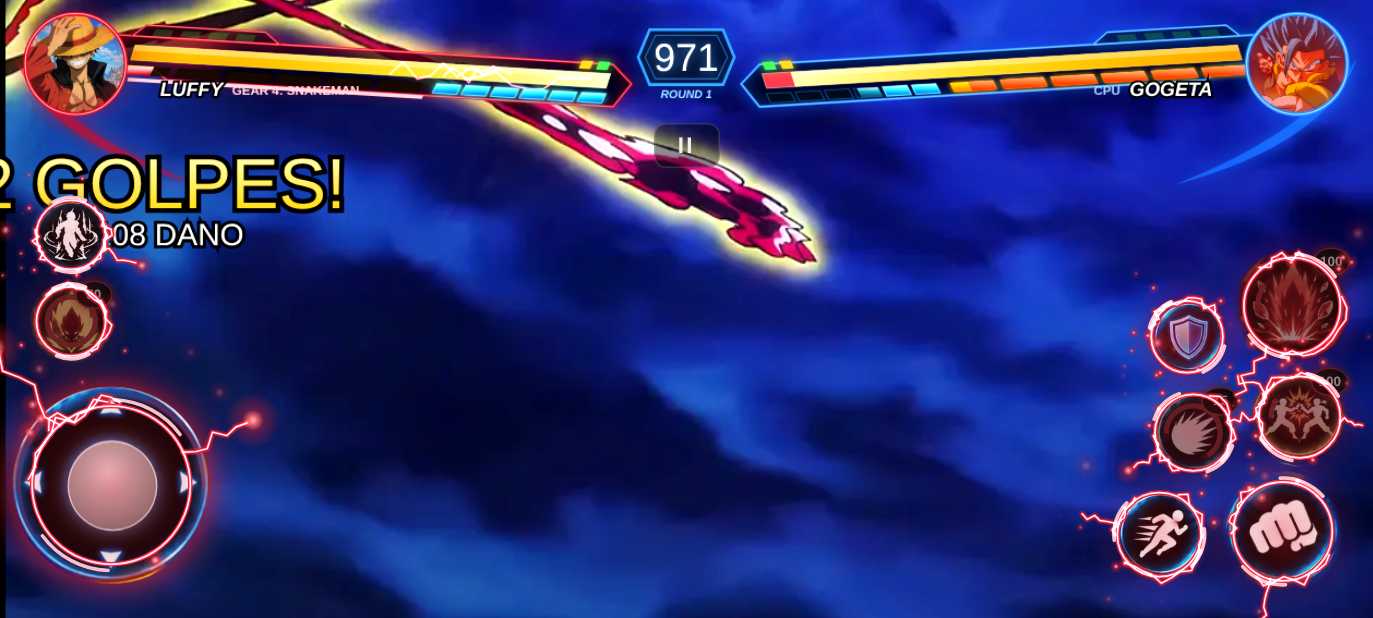
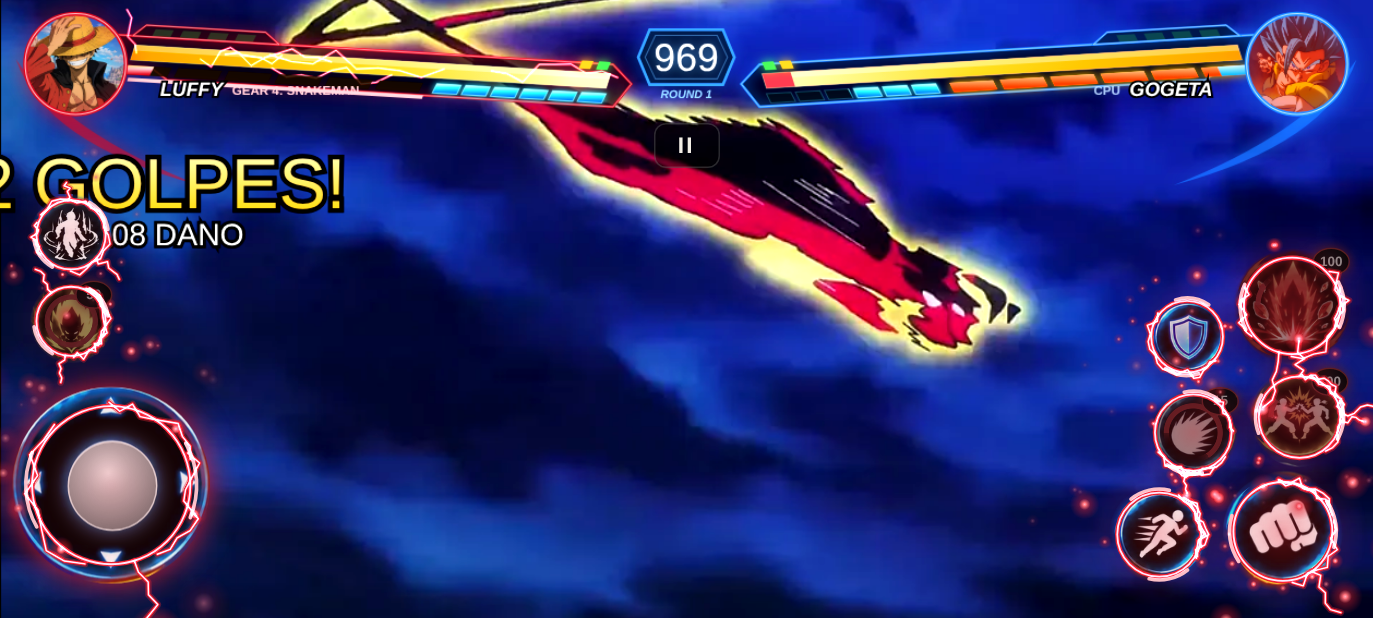
v150: Luffy — socos mais rápidos e fortes, rajada de socos na corrente, rajadas de ar
Claude-Session: https://claude.ai/code/session_01KtrZTmDkLnY2EE7eHvUsq1

diff --git a/www/index.html b/www/index.html
@@ -3245,10 +3245,10 @@ const LFK={lfc:1,lfp:1,lfg:1};
 function lfKey(f){const t=f.st;if(f.state==='lfc')return['cmb',Math.min(7,Math.floor(t/6))];
   if(f.state==='lfp'){const A=f.lfS?'ki2':'ki1',ext=f.form?(f.lfS?3:4):(f.lfS?5:4);if(t<6)return[A,Math.min(ext-1,1+(t>>1))];if(t<16)return[A,ext];return[A,Math.min(7,ext+1+((t-16)>>2))]}
   if(f.state==='lfg'){if(t<8)return['gatling',Math.min(2,t>>2)];if(t<50)return['gatling',3+((t>>2)%3)];return['gatling',Math.min(7,6+((t-50)>>3))]}return['idle',0]}
-Object.assign(VGA,{ljab:['jab',[0,1],[2],[3]],ljab2:['jab',[3,4],[5],[6]],lknee:['cross',[1,2,3],[4],[5,6,7]],lstr:['upper',[1,2,3],[4],[5,6,7]],
+Object.assign(VGA,{ljab:['jab',[1],[2],[3]],ljab2:['jab',[4],[5],[6]],lknee:['cross',[2,3],[4,4,5],[6,7]],lrap:['gatling',[1,2],[3,4,5,4,5,3,4,5],[6,7]],lstr:['upper',[2,3],[4],[5,6,7]],
   lkick:['kick',[1,2,3],[4],[5,6,7]],lhkick:['hkick',[1,2,3],[4],[5,6,7]],lsweep:['sweep',[1,2,3,4],[5],[6,7]],
   lajab:['ajab',[1],[2,3],[4,5,6,7]],lakick:['akick',[1],[2,3],[4,5,6,7]],lsmash:['str',[0,1,2,3],[4,5],[6,7]],lrush:['dash2',[1,2],[3,4],[5,6]],
-  yjab:['jab',[0,1,2],[3,4],[5,6,7]],yjab2:['cross',[0,1,2],[3,4],[5,6,7]],yknee:['str',[1,2],[3,4,5,6],[7]],ystr:['upper',[1,2,3],[4],[5,6,7]],
+  yjab:['jab',[1,2],[3,4],[6,7]],yjab2:['cross',[1,2],[3,4],[6,7]],yknee:['str',[1,2],[3,4,5,6],[7]],yrap:['gatling',[1,2],[3,4,5,6,3,4,5,6],[7]],ystr:['upper',[2,3],[4],[5,6,7]],
   ykick:['kick',[1,2],[3,4],[5,6,7]],yhkick:['hkick',[1,2],[3,4],[5,6,7]],ysweep:['sweep',[1,2],[3,4,5],[6,7]],
   yajab:['ajab',[1],[2,3],[4,5,6,7]],yakick:['akick',[1],[2,3],[4,5,6,7]],ysmash:['cross',[0,1,2],[3,4],[5,6,7]],yrush:['dash2',[1,2],[3,4],[5,6]]});
 (function(){
@@ -3260,10 +3260,11 @@ Object.assign(VGA,{ljab:['jab',[0,1],[2],[3]],ljab2:['jab',[3,4],[5],[6]],lknee:
   const hb=(name,pad,hh,low,S)=>{const A=VGA[name],L=(S||S0)[A[0]];let rx=0,ry=0;for(const i of A[2]){const F=L[i];if(F&&F.rx>rx){rx=F.rx;ry=F.ry}}
     return low?[6,-(ry+hh*.6),rx+pad-6,hh]:[6,-(ry+hh/2),rx+pad-6,hh]};
   Object.assign(MOVES,{
-    ljab:{su:4,ac:3,rc:8,dmg:42,hb:hb('ljab',26,60),kb:2.2,hs:16,next:'ljab2',knext:'lkick',lean:1.6,cat:'punch'},
-    ljab2:{su:3,ac:3,rc:9,dmg:46,hb:hb('ljab2',26,60),kb:2.4,hs:17,next:'lknee',knext:'lkick',lean:1.8,cat:'punch'},
-    lknee:{su:5,ac:4,rc:10,dmg:62,hb:hb('lknee',40,70),kb:3.4,hs:18,next:'lstr',knext:'lkick',lean:1.4,cat:'punch'},
-    lstr:{su:6,ac:5,rc:14,dmg:84,hb:hb('lstr',26,120),kb:4,launch:-10,launcher:1,heavy:1,lean:2,cat:'kick'},
+    ljab:{su:3,ac:3,rc:6,dmg:48,hb:hb('ljab',28,60),kb:2.2,hs:16,next:'ljab2',knext:'lkick',lean:1.8,cat:'punch'},
+    ljab2:{su:2,ac:3,rc:6,dmg:52,hb:hb('ljab2',28,60),kb:2.4,hs:17,next:'lknee',knext:'lkick',lean:2,cat:'punch'},
+    lknee:{su:3,ac:5,rc:7,dmg:72,hb:hb('lknee',60,70),kb:3.4,hs:18,next:'lrap',knext:'lkick',lean:1.6,lfAir:1,cat:'punch'},
+    lrap:{su:3,ac:16,rc:6,dmg:24,rehit:[4,8,12],hb:hb('lrap',50,90),kb:1,hs:12,next:'lstr',knext:'lkick',lean:1.2,lfAir:2,cat:'punch'},
+    lstr:{su:4,ac:5,rc:12,dmg:96,hb:hb('lstr',30,130),kb:4,launch:-10,launcher:1,heavy:1,lean:2.2,cat:'kick'},
     lkick:{su:6,ac:5,rc:12,dmg:62,hb:hb('lkick',26,80),kb:4,hs:19,lean:1.2,next:'ljab',knext:'lhkick',cat:'kick'},
     lhkick:{su:8,ac:4,rc:15,dmg:84,hb:[6,-290,124,262],kb:4,launch:-10,launcher:1,heavy:1,lean:1.4,cat:'kick'},
     lsweep:{su:7,ac:5,rc:16,dmg:66,hb:hb('lsweep',22,56,1),kb:3,launch:-5,low:1,crouch:1,cat:'kick'},
@@ -3271,10 +3272,11 @@ Object.assign(VGA,{ljab:['jab',[0,1],[2],[3]],ljab2:['jab',[3,4],[5],[6]],lknee:
     lakick:{su:4,ac:5,rc:9,dmg:64,hb:hb('lakick',26,100),kb:5,hs:18,air:1,cat:'kick'},
     lsmash:Object.assign({},MOVES.smash,{hb:hb('lsmash',40,80)}),
     lrush:Object.assign({},MOVES.rush,{hb:hb('lrush',30,120)}),
-    yjab:{su:3,ac:4,rc:8,dmg:46,hb:hb('yjab',40,70,0,S1),kb:2.6,hs:16,next:'yjab2',knext:'ykick',lean:1.6,cat:'punch'},
-    yjab2:{su:3,ac:4,rc:8,dmg:50,hb:hb('yjab2',40,70,0,S1),kb:2.8,hs:17,next:'yknee',knext:'ykick',lean:1.8,cat:'punch'},
-    yknee:{su:3,ac:8,rc:7,dmg:30,rehit:[6,9],hb:hb('yknee',40,80,0,S1),kb:1.5,hs:12,next:'ystr',knext:'ykick',lean:1.4,cat:'punch'},
-    ystr:{su:5,ac:5,rc:13,dmg:90,hb:hb('ystr',30,130,0,S1),kb:4,launch:-11,launcher:1,heavy:1,lean:2,cat:'kick'},
+    yjab:{su:2,ac:4,rc:6,dmg:54,hb:hb('yjab',60,70,0,S1),kb:2.6,hs:16,next:'yjab2',knext:'ykick',lean:1.8,lfAir:1,cat:'punch'},
+    yjab2:{su:2,ac:4,rc:6,dmg:58,hb:hb('yjab2',60,70,0,S1),kb:2.8,hs:17,next:'yknee',knext:'ykick',lean:2,lfAir:1,cat:'punch'},
+    yknee:{su:2,ac:8,rc:6,dmg:36,rehit:[5],hb:hb('yknee',60,80,0,S1),kb:1.5,hs:12,next:'yrap',knext:'ykick',lean:1.4,lfAir:1,cat:'punch'},
+    yrap:{su:2,ac:16,rc:5,dmg:28,rehit:[3,6,9,12],hb:hb('yrap',70,100,0,S1),kb:1,hs:11,next:'ystr',knext:'ykick',lean:1.2,lfAir:2,cat:'punch'},
+    ystr:{su:3,ac:5,rc:11,dmg:104,hb:hb('ystr',40,140,0,S1),kb:4,launch:-11,launcher:1,heavy:1,lean:2.2,cat:'kick'},
     ykick:{su:5,ac:6,rc:11,dmg:64,hb:hb('ykick',30,80,0,S1),kb:4,hs:19,lean:1.2,next:'yjab',knext:'yhkick',cat:'kick'},
     yhkick:{su:6,ac:6,rc:14,dmg:88,hb:[6,-300,140,270],kb:4,launch:-11,launcher:1,heavy:1,lean:1.4,cat:'kick'},
     ysweep:{su:5,ac:7,rc:14,dmg:68,hb:hb('ysweep',30,60,1,S1),kb:3,launch:-5,low:1,crouch:1,cat:'kick'},
@@ -3287,15 +3289,15 @@ function lfOpp(f){return G.p[0]===f?G.p[1]:G.p[0]}
 function lfAct(f,st,cost,strong){if(f.ki<cost){if(!f.cpu)say(f,'PRECISA DE '+cost+' KI');return}f.ki-=cost;lfLoad();f.state=st;f.st=0;f.vx=0;f.move=null;f.guard=false;f.lfS=strong?1:0;f.lfArm=null;f.lfHit=0;if(st==='lfg')fzTag(f,f.form?'Black Mamba!':'Gomu Gomu no Gatling!')}
 function lfCombo(f,o){lfLoad();f.state='lfc';f.st=0;f.vx=0;f.move=null;f.guard=false;f.lfHeld=false;SFX.whoosh()}
 /* braço de borracha: sai da mão do quadro esticado, vai até o alcance e volta (Snakeman: persegue o rival) */
-function lfHand(f){const k=lfKey(f),L=SPRH[ssid(f)][k[0]],F=L&&L[Math.min(L.length-1,k[1])];return F?[f.x+f.facing*(F.rx-10),f.y-F.ry]:[f.x+f.facing*90,f.y-170]}
+function lfHand(f){const k=LFK[f.state]?lfKey(f):spriteKey(f),L=SPRH[ssid(f)][k[0]],F=L&&L[Math.min(L.length-1,k[1])];return F?[f.x+f.facing*(F.rx-10),f.y-F.ry]:[f.x+f.facing*90,f.y-170]}
 function lfStep(f){const o=lfOpp(f),t=++f.st,fw=f.facing,form=!!f.form;
   if(f.state==='lfp'){
     if(t===6){const h=lfHand(f);LFAIR.push({o:f,x:h[0],y:h[1],x0:h[0],dir:fw,vx:fw*(form?30:26),t:0,form,strong:f.lfS,max:form?(f.lfS?760:640):(f.lfS?600:480)});SFX.whoosh();G.shake=Math.max(G.shake,f.lfS?5:3);
       if(f.lfS||form)fzTag(f,form?(f.lfS?'Jet Culverin!':'Culverin!'):'Gomu Gomu no Pistol!')}
     if(t>=30)neutral(f);return}
   if(f.state==='lfg'){
-    if(t>=10&&t<=48&&t%5===0&&o&&!o.ko&&Math.sign(o.x-f.x)===fw&&Math.abs(o.x-f.x)<(form?420:330)&&Math.abs(o.y-f.y)<150){
-      applyHit(f,o,{dmg:form?17:13,kb:.6,hs:7,px:o.x-fw*30+rand(-10,10),py:o.y-rand(110,200),kind:'melee'});spark(o.x-fw*30,o.y-rand(110,200),form?'#ff7a88':'#fff3d0',4,7);if(o.hp<=0)ko(f,o)}
+    if(t>=10&&t<=48&&t%4===0&&o&&!o.ko&&Math.sign(o.x-f.x)===fw&&Math.abs(o.x-f.x)<(form?420:330)&&Math.abs(o.y-f.y)<150){
+      applyHit(f,o,{dmg:form?20:16,kb:.6,hs:7,px:o.x-fw*30+rand(-10,10),py:o.y-rand(110,200),kind:'melee'});spark(o.x-fw*30,o.y-rand(110,200),form?'#ff7a88':'#fff3d0',4,7);if(o.hp<=0)ko(f,o)}
     if(t===52&&o&&!o.ko&&Math.sign(o.x-f.x)===fw&&Math.abs(o.x-f.x)<(form?440:350)&&Math.abs(o.y-f.y)<150){applyHit(f,o,{dmg:form?55:42,kb:6,hs:18,heavy:1,px:o.x-fw*30,py:o.y-150,kind:'melee'});G.shake=Math.max(G.shake,9);if(o.hp<=0)ko(f,o)}
     if(t>=10&&t<=48&&t%3===0){const h=lfHand(f);LFAIR.push({o:f,x:h[0],y:h[1]+rand(-40,30),x0:h[0],dir:fw,vx:fw*(form?32:28),t:0,form,small:1,nohit:1,max:form?400:320})}
     if(t>=64)neutral(f);return}
@@ -3309,9 +3311,9 @@ function lfStep(f){const o=lfOpp(f),t=++f.st,fw=f.facing,form=!!f.form;
         if(!f.finDone&&f.combo>=3)comboFinish(f,o,h);G.shake=Math.max(G.shake,14);if(o.hp<=0)ko(f,o)}}
     if(t>=52){f.lfHeld=false;neutral(f)}return}}
 const LFAIR=[];
-function lfAirTick(){if(G.mode!=='fight'||G.hitstop>0)return;for(const p of LFAIR){p.t++;p.x+=p.vx;const o=lfOpp(p.o);
+function lfAirTick(){if(G.mode!=='fight'||G.hitstop>0)return;for(const f of G.p){if(!f||!isLf(f)||f.state!=='attack'||!f.move||!f.move.lfAir)continue;const m=f.move,r=f.mf-m.su;if(r<1||r>m.ac)continue;if((m.lfAir===1&&r===1)||(m.lfAir===2&&r%3===1)){const h=lfHand(f);LFAIR.push({o:f,x:h[0]+f.facing*10,y:h[1]+(m.lfAir===2?rand(-35,25):0),x0:h[0],dir:f.facing,vx:f.facing*(f.form?30:26),t:0,form:!!f.form,small:1,nohit:1,max:m.lfAir===2?200:150})}}for(const p of LFAIR){p.t++;p.x+=p.vx;const o=lfOpp(p.o);
     if(!p.nohit&&o&&!o.ko&&Math.sign(o.x-p.o.x)===p.dir&&Math.abs(o.x-p.x)<60&&p.y>o.y-280&&p.y<o.y+10){p.dead=1;
-      applyHit(p.o,o,{dmg:p.form?(p.strong?95:72):(p.strong?85:55),kb:p.strong?6:3,hs:p.strong?20:16,heavy:p.strong?1:0,px:p.x,py:p.y,kind:'blast'});
+      applyHit(p.o,o,{dmg:p.form?(p.strong?110:82):(p.strong?95:65),kb:p.strong?6:3,hs:p.strong?20:16,heavy:p.strong?1:0,px:p.x,py:p.y,kind:'blast'});
       ring(p.x,p.y,p.form?'#ff4a5a':'#ffffff',100,12,4);spark(p.x,p.y,p.form?'#ff9aa6':'#ffffff',10,9);if(p.form)for(let i=0;i<3;i++)spark(p.x+rand(-30,30),p.y+rand(-30,30),'#ff4a5a',2,4,'bolt');G.shake=Math.max(G.shake,p.strong?10:5);if(o.hp<=0)ko(p.o,o)}
     if(Math.abs(p.x-p.x0)>p.max)p.dead=1}
   for(let i=LFAIR.length-1;i>=0;i--)if(LFAIR[i].dead)LFAIR.splice(i,1)}

diff --git a/ferramentas/testes/tluffy.js b/ferramentas/testes/tluffy.js
@@ -14,7 +14,7 @@ await p.evaluate(()=>{const G=__dbg.G;G.noAI=true;G.timer=999;G.p[1].cpu=true;G.
   window.LOG=[];const G2=__dbg.G;(function lp(){const f=G2.p[0];LOG.push(f.state+(f.mname&&f.state==='attack'?':'+f.mname:''));requestAnimationFrame(lp)})()});
 const R={};const shot=n=>p.screenshot({path:SH+n+'.png'});
 await p.evaluate(()=>F(60));await shot('lf_idle');
-R.chain=await p.evaluate(async()=>{await reset();LOG.length=0;for(let i=0;i<4;i++){await tap('punch');await F(10)}await F(30);return [...new Set(LOG)].join(' ')});
+R.chain=await p.evaluate(async()=>{await reset();LOG.length=0;const o=__dbg.G.p[1];for(let i=0;i<5;i++){await tap("punch");await F(10)}await F(40);LOG.push("DMG"+Math.round(3600-o.hp));return [...new Set(LOG)].join(' ')});
 R.kick=await p.evaluate(async()=>{await F(60);await reset();const o=__dbg.G.p[1],hp=o.hp;await tap('kick');await F(18);await tap('kick');await F(40);return Math.round(hp-o.hp)});
 R.pis=await p.evaluate(async()=>{await F(60);await reset(400);await tap('ki');await F(20);return __dbg.G.p[0].state});await shot('lf_pistol');
 R.pis2=await p.evaluate(async()=>{await F(40);return Math.round(3600-__dbg.G.p[1].hp)});
@@ -26,7 +26,7 @@ R.tr=await p.evaluate(async()=>{await F(60);await reset(300);const f=__dbg.G.p[0
 R.tr2=await p.evaluate(async()=>{await F(200);const f=__dbg.G.p[0];return [f.form,f.state]});await shot('lf_snake');
 R.speed=await p.evaluate(async()=>{const f=__dbg.G.p[0];f.x=400;__dbg.G.p[1].x=1500;await F(10);const x0=f.x;K('right',1);await F(40);K('right',0);await F(10);return Math.round(f.x-x0)});
 R.charge=await p.evaluate(async()=>{await reset(500);const f=__dbg.G.p[0];f.form=1;f.formT=5000;K('ki',1);await F(40);return __dbg.G.p[0].state});await shot('lf_charge');await p.evaluate(()=>{K('ki',0)});
-R.ychain=await p.evaluate(async()=>{await F(30);await reset();const f=__dbg.G.p[0];f.form=1;f.formT=5000;LOG.length=0;for(let i=0;i<4;i++){await tap('punch');await F(10)}await F(30);return [...new Set(LOG)].join(' ')});
+R.ychain=await p.evaluate(async()=>{await F(30);await reset();const f=__dbg.G.p[0],o=__dbg.G.p[1];f.form=1;f.formT=5000;LOG.length=0;for(let i=0;i<5;i++){await tap("punch");await F(10)}await F(40);LOG.push("DMG"+Math.round(3600-o.hp));return [...new Set(LOG)].join(' ')});
 R.cul=await p.evaluate(async()=>{await F(60);await reset(560);const f=__dbg.G.p[0],o=__dbg.G.p[1];f.form=1;f.formT=5000;o.y=486;K('right',1);await F(1);await tap('ki');K('right',0);await F(22);return f.state});await shot('lf_culverin');
 R.cul2=await p.evaluate(async()=>{await F(40);return Math.round(3600-__dbg.G.p[1].hp)});
 R.c2=await p.evaluate(async()=>{await F(60);await reset(170);const f=__dbg.G.p[0];f.form=1;f.formT=5000;await tap('sp');await F(20);return f.state});await shot('lf_combo2');

diff --git a/GUIA-CLAUDE.md b/GUIA-CLAUDE.md
@@ -227,6 +227,11 @@ O dono mandou uma especificação ("SISTEMA PROFISSIONAL DE COMBATE 2D": animaç
 - O dono NÃO gostou do braço de borracha desenhado pelo Claude: removido. Ki = soco rápido (quadro esticado da própria folha) + rajada de AR (`LFAIR`, `lfAirTick`/`drawLf`: meias-luas brancas e linhas de vento; Snakeman vermelhas, com raios). Gatling: várias rajadas de ar pequenas (sem punhos desenhados). O dono disse que vai mandar um desenho de soco dele — usar no lugar quando chegar.
 - Snakeman: raios vermelhos (`zArcs` ZPAL.red) sempre visíveis (até 5; 8 carregando).
 
+## v150 — Luffy: socos mais fortes, mais rápidos e rajadas
+- Corrente de socos agora tem 5 golpes: ljab → ljab2 → lknee (Pistol curto, alcance maior) → **lrap** (rajada: folha da Gatling, 4 acertos) → lstr (gancho, lança). Snakeman: yjab → yjab2 → yknee (2 acertos) → **yrap** (5 acertos) → ystr. Tudo mais rápido (su 2–3, rc 5–7) e com mais dano (~+15%).
+- `move.lfAir`: 1 = sai uma rajada de ar visual no 1º quadro ativo; 2 = várias rajadas durante a rajada de socos (só visual, `nohit`). `lfHand` usa `spriteKey` fora dos estados especiais.
+- Ki mais forte: Pistol 65/95, Culverin 82/110; Gatling/Black Mamba acertos 16/20 a cada 4 frames.
+
 ## Pendências / ideias
 - Vegeta transformado: faltam poses próprias de carregar ki, rajada de ki, soco e chute no ar (hoje usa grito da vitória, soco e chute alto). Se o dono mandar, trocar no `build_vegeta_blue2.py` e no mapa `A`.
 - A segunda folha de "gancho para cima" do Vegeta transformado não foi usada.
